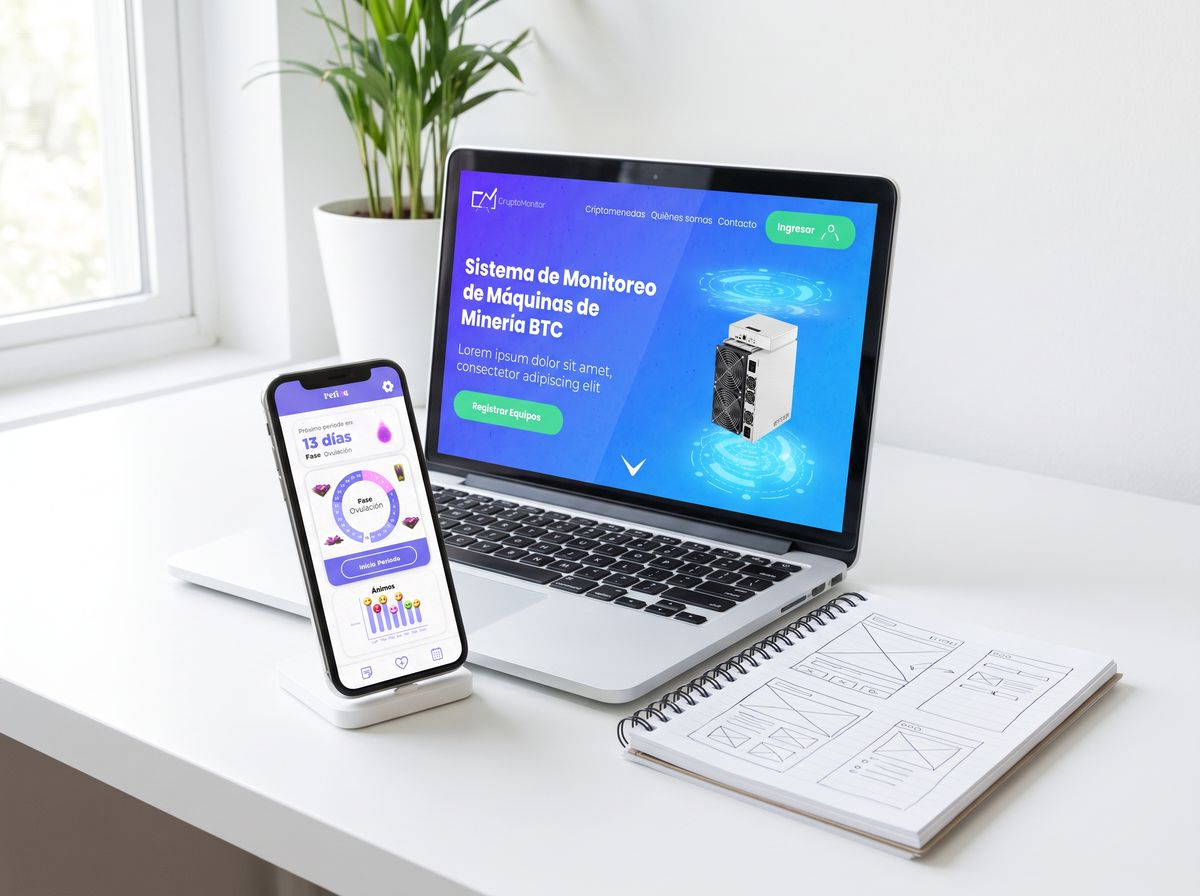
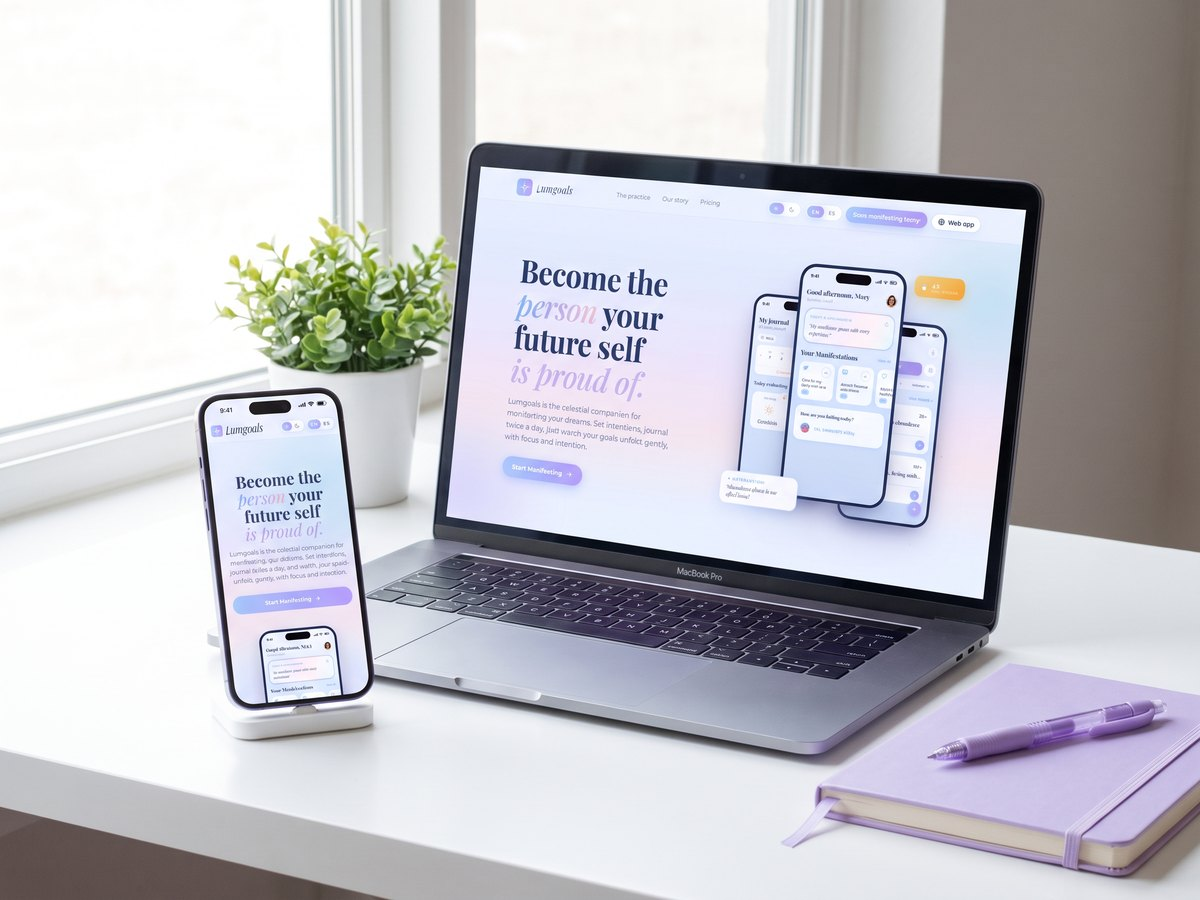
Lumgoals: sitio web con mockup y capturas; imagen de Websites & Apps con lumgoals.com

diff --git a/project/lumgoals.html b/project/lumgoals.html
@@ -56,7 +56,7 @@
   <h2 data-en="Creative process" data-es="Proceso creativo" data-split>Creative process</h2>
   <ol class="d-process" data-reveal><li>1. <b><span data-en="Brand and design system" data-es="Marca y sistema de diseño">Brand and design system</span>.</b> <span data-en="Logo design: a four-point sparkle that suggests light and a wish coming true, paired with an italic serif wordmark, plus the palette, Playfair Display typography and iridescent characters." data-es="Diseño del logo: una estrella de cuatro puntas que sugiere luz y un deseo que se cumple, junto a un logotipo en serif cursiva, además de la paleta, la tipografía Playfair Display y los personajes iridiscentes.">Logo design: a four-point sparkle that suggests light and a wish coming true, paired with an italic serif wordmark, plus the palette, Playfair Display typography and iridescent characters.</span></li><li>2. <b><span data-en="App UI/UX" data-es="UI/UX de la app">App UI/UX</span>.</b> <span data-en="Onboarding flow, home, manifestations, journal, vision boards and premium screens in light and dark themes." data-es="Onboarding, inicio, manifestaciones, diario, tableros de visión y pantallas premium en tema claro y oscuro.">Onboarding flow, home, manifestations, journal, vision boards and premium screens in light and dark themes.</span></li><li>3. <b><span data-en="Launch content" data-es="Contenido de lanzamiento">Launch content</span>.</b> <span data-en="Store banners and Instagram posts with QR and call to action for the launch." data-es="Banners para las tiendas y posts de Instagram con QR y llamado a la acción para el lanzamiento.">Store banners and Instagram posts with QR and call to action for the launch.</span></li></ol>
 </section>
-<section class="wrap"><div class="d-imgs"><span class="label s-label" data-en="Logo design" data-es="Diseño del logo">Logo design</span><div class="s-grid" style="--cols:1"><div class="s-cell" style="aspect-ratio:1920/1200" data-lightbox data-clip><img src="../assets/projects/lumgoals/logo-board.jpg?v=1792865134" alt="Lumgoals" loading="lazy"></div></div><div class="s-grid" style="--cols:2"><div class="s-cell" style="aspect-ratio:1200/896" data-lightbox data-clip><img src="../assets/projects/lumgoals/logo-phone.jpg?v=1792865135" alt="Lumgoals" loading="lazy"></div><div class="s-cell" style="aspect-ratio:1200/896" data-lightbox data-clip><img src="../assets/projects/lumgoals/logo-merch.jpg?v=1792865135" alt="Lumgoals" loading="lazy"></div></div><span class="label s-label" data-en="Light theme" data-es="Tema claro">Light theme</span><div class="phones"><div class="phone" data-clip><div class="phone-screen" data-lightbox><img src="../assets/projects/lumgoals/light-1.jpg?v=1792839564" alt="Lumgoals" loading="lazy"></div></div><div class="phone" data-clip><div class="phone-screen" data-lightbox><img src="../assets/projects/lumgoals/light-2.jpg?v=1792839564" alt="Lumgoals" loading="lazy"></div></div><div class="phone" data-clip><div class="phone-screen" data-lightbox><img src="../assets/projects/lumgoals/light-3.jpg?v=1792839564" alt="Lumgoals" loading="lazy"></div></div><div class="phone" data-clip><div class="phone-screen" data-lightbox><img src="../assets/projects/lumgoals/light-4.jpg?v=1792839565" alt="Lumgoals" loading="lazy"></div></div><div class="phone" data-clip><div class="phone-screen" data-lightbox><img src="../assets/projects/lumgoals/light-5.jpg?v=1792839565" alt="Lumgoals" loading="lazy"></div></div></div><span class="label s-label" data-en="Dark theme" data-es="Tema oscuro">Dark theme</span><div class="phones dark"><div class="phone" data-clip><div class="phone-screen" data-lightbox><img src="../assets/projects/lumgoals/dark-1.jpg?v=1792839565" alt="Lumgoals" loading="lazy"></div></div><div class="phone" data-clip><div class="phone-screen" data-lightbox><img src="../assets/projects/lumgoals/dark-2.jpg?v=1792839565" alt="Lumgoals" loading="lazy"></div></div><div class="phone" data-clip><div class="phone-screen" data-lightbox><img src="../assets/projects/lumgoals/dark-3.jpg?v=1792839565" alt="Lumgoals" loading="lazy"></div></div><div class="phone" data-clip><div class="phone-screen" data-lightbox><img src="../assets/projects/lumgoals/dark-4.jpg?v=1792839565" alt="Lumgoals" loading="lazy"></div></div><div class="phone" data-clip><div class="phone-screen" data-lightbox><img src="../assets/projects/lumgoals/dark-5.jpg?v=1792839565" alt="Lumgoals" loading="lazy"></div></div></div><div class="s-grid" style="--cols:1"><div class="s-cell s-video" style="aspect-ratio:1280/720" data-clip><video src="../assets/projects/lumgoals/woman-app-loop.mp4?v=1792869048" poster="../assets/projects/lumgoals/woman-app-loop.jpg?v=1792869048" autoplay muted loop playsinline preload="metadata"></video></div></div><span class="label s-label" data-en="Social media reels" data-es="Reels para redes">Social media reels</span><div class="s-grid" style="--cols:4"><div class="s-cell s-video" style="aspect-ratio:540/960" data-clip><video src="../assets/projects/lumgoals/social/reel-01.mp4?v=1792865024" poster="../assets/projects/lumgoals/social/reel-01.jpg?v=1792865024" autoplay muted loop playsinline preload="metadata"></video></div><div class="s-cell s-video" style="aspect-ratio:540/960" data-clip><video src="../assets/projects/lumgoals/social/reel-02.mp4?v=1792865025" poster="../assets/projects/lumgoals/social/reel-02.jpg?v=1792865025" autoplay muted loop playsinline preload="metadata"></video></div><div class="s-cell s-video" style="aspect-ratio:540/960" data-clip><video src="../assets/projects/lumgoals/social/reel-03.mp4?v=1792865026" poster="../assets/projects/lumgoals/social/reel-03.jpg?v=1792865026" autoplay muted loop playsinline preload="metadata"></video></div><div class="s-cell s-video" style="aspect-ratio:540/960" data-clip><video src="../assets/projects/lumgoals/social/reel-04.mp4?v=1792865028" poster="../assets/projects/lumgoals/social/reel-04.jpg?v=1792865028" autoplay muted loop playsinline preload="metadata"></video></div><div class="s-cell s-video" style="aspect-ratio:540/960" data-clip><video src="../assets/projects/lumgoals/social/reel-05.mp4?v=1792865029" poster="../assets/projects/lumgoals/social/reel-05.jpg?v=1792865029" autoplay muted loop playsinline preload="metadata"></video></div><div class="s-cell s-video" style="aspect-ratio:540/960" data-clip><video src="../assets/projects/lumgoals/social/reel-06.mp4?v=1792865030" poster="../assets/projects/lumgoals/social/reel-06.jpg?v=1792865030" autoplay muted loop playsinline preload="metadata"></video></div><div class="s-cell s-video" style="aspect-ratio:540/960" data-clip><video src="../assets/projects/lumgoals/social/reel-07.mp4?v=1792865031" poster="../assets/projects/lumgoals/social/reel-07.jpg?v=1792865031" autoplay muted loop playsinline preload="metadata"></video></div><div class="s-cell s-video" style="aspect-ratio:540/960" data-clip><video src="../assets/projects/lumgoals/social/reel-08.mp4?v=1792865032" poster="../assets/projects/lumgoals/social/reel-08.jpg?v=1792865033" autoplay muted loop playsinline preload="metadata"></video></div><div class="s-cell s-video" style="aspect-ratio:540/960" data-clip><video src="../assets/projects/lumgoals/social/reel-09.mp4?v=1792865033" poster="../assets/projects/lumgoals/social/reel-09.jpg?v=1792865034" autoplay muted loop playsinline preload="metadata"></video></div><div class="s-cell s-video" style="aspect-ratio:540/960" data-clip><video src="../assets/projects/lumgoals/social/reel-10.mp4?v=1792865035" poster="../assets/projects/lumgoals/social/reel-10.jpg?v=1792865035" autoplay muted loop playsinline preload="metadata"></video></div><div class="s-cell s-video" style="aspect-ratio:540/960" data-clip><video src="../assets/projects/lumgoals/social/reel-11.mp4?v=1792865036" poster="../assets/projects/lumgoals/social/reel-11.jpg?v=1792865036" autoplay muted loop playsinline preload="metadata"></video></div></div><span class="label s-label" data-en="Social media posts" data-es="Posts para redes">Social media posts</span><div class="p-feed"><figure class="p-card" data-clip><figcaption class="p-head"><span class="p-avatar"></span>lumgoals</figcaption><div class="p-img" style="aspect-ratio:900/1125" data-lightbox><img src="../assets/projects/lumgoals/post-1.jpg?v=1792839564" alt="Lumgoals" loading="lazy"></div><div class="p-actions"><svg viewBox="0 0 24 24" aria-hidden="true"><path d="M12 20.5s-7.5-4.6-9.3-9.2C1.4 8 3.6 4.5 7.2 4.5c2 0 3.6 1.1 4.8 2.8 1.2-1.7 2.8-2.8 4.8-2.8 3.6 0 5.8 3.5 4.5 6.8-1.8 4.6-9.3 9.2-9.3 9.2z"/></svg><svg viewBox="0 0 24 24" aria-hidden="true"><path d="M20.5 11.6a8.4 8.4 0 0 1-12.3 7.5L3.5 20.5l1.4-4.6A8.5 8.5 0 1 1 20.5 11.6z"/></svg><svg viewBox="0 0 24 24" aria-hidden="true"><path d="M21.5 3.5 10.6 13.4M21.5 3.5l-6.8 17-4.1-7.1-7.1-4.1z"/></svg><span class="p-save"><svg viewBox="0 0 24 24" aria-hidden="true"><path d="M6 3.5h12v17l-6-4.4-6 4.4z"/></svg></span></div></figure><figure class="p-card" data-clip><figcaption class="p-head"><span class="p-avatar"></span>lumgoals</figcaption><div class="p-img" style="aspect-ratio:900/1125" data-lightbox><img src="../assets/projects/lumgoals/post-2.jpg?v=1792839564" alt="Lumgoals" loading="lazy"></div><div class="p-actions"><svg viewBox="0 0 24 24" aria-hidden="true"><path d="M12 20.5s-7.5-4.6-9.3-9.2C1.4 8 3.6 4.5 7.2 4.5c2 0 3.6 1.1 4.8 2.8 1.2-1.7 2.8-2.8 4.8-2.8 3.6 0 5.8 3.5 4.5 6.8-1.8 4.6-9.3 9.2-9.3 9.2z"/></svg><svg viewBox="0 0 24 24" aria-hidden="true"><path d="M20.5 11.6a8.4 8.4 0 0 1-12.3 7.5L3.5 20.5l1.4-4.6A8.5 8.5 0 1 1 20.5 11.6z"/></svg><svg viewBox="0 0 24 24" aria-hidden="true"><path d="M21.5 3.5 10.6 13.4M21.5 3.5l-6.8 17-4.1-7.1-7.1-4.1z"/></svg><span class="p-save"><svg viewBox="0 0 24 24" aria-hidden="true"><path d="M6 3.5h12v17l-6-4.4-6 4.4z"/></svg></span></div></figure><figure class="p-card" data-clip><figcaption class="p-head"><span class="p-avatar"></span>lumgoals</figcaption><div class="p-img" style="aspect-ratio:900/1125" data-lightbox><img src="../assets/projects/lumgoals/post-3.jpg?v=1792839564" alt="Lumgoals" loading="lazy"></div><div class="p-actions"><svg viewBox="0 0 24 24" aria-hidden="true"><path d="M12 20.5s-7.5-4.6-9.3-9.2C1.4 8 3.6 4.5 7.2 4.5c2 0 3.6 1.1 4.8 2.8 1.2-1.7 2.8-2.8 4.8-2.8 3.6 0 5.8 3.5 4.5 6.8-1.8 4.6-9.3 9.2-9.3 9.2z"/></svg><svg viewBox="0 0 24 24" aria-hidden="true"><path d="M20.5 11.6a8.4 8.4 0 0 1-12.3 7.5L3.5 20.5l1.4-4.6A8.5 8.5 0 1 1 20.5 11.6z"/></svg><svg viewBox="0 0 24 24" aria-hidden="true"><path d="M21.5 3.5 10.6 13.4M21.5 3.5l-6.8 17-4.1-7.1-7.1-4.1z"/></svg><span class="p-save"><svg viewBox="0 0 24 24" aria-hidden="true"><path d="M6 3.5h12v17l-6-4.4-6 4.4z"/></svg></span></div></figure><figure class="p-card" data-clip><figcaption class="p-head"><span class="p-avatar"></span>lumgoals</figcaption><div class="p-img" style="aspect-ratio:900/1125" data-lightbox><img src="../assets/projects/lumgoals/post-4.jpg?v=1792839564" alt="Lumgoals" loading="lazy"></div><div class="p-actions"><svg viewBox="0 0 24 24" aria-hidden="true"><path d="M12 20.5s-7.5-4.6-9.3-9.2C1.4 8 3.6 4.5 7.2 4.5c2 0 3.6 1.1 4.8 2.8 1.2-1.7 2.8-2.8 4.8-2.8 3.6 0 5.8 3.5 4.5 6.8-1.8 4.6-9.3 9.2-9.3 9.2z"/></svg><svg viewBox="0 0 24 24" aria-hidden="true"><path d="M20.5 11.6a8.4 8.4 0 0 1-12.3 7.5L3.5 20.5l1.4-4.6A8.5 8.5 0 1 1 20.5 11.6z"/></svg><svg viewBox="0 0 24 24" aria-hidden="true"><path d="M21.5 3.5 10.6 13.4M21.5 3.5l-6.8 17-4.1-7.1-7.1-4.1z"/></svg><span class="p-save"><svg viewBox="0 0 24 24" aria-hidden="true"><path d="M6 3.5h12v17l-6-4.4-6 4.4z"/></svg></span></div></figure><figure class="p-card" data-clip><figcaption class="p-head"><span class="p-avatar"></span>lumgoals</figcaption><div class="p-img" style="aspect-ratio:900/1125" data-lightbox><img src="../assets/projects/lumgoals/post-5.jpg?v=1792839564" alt="Lumgoals" loading="lazy"></div><div class="p-actions"><svg viewBox="0 0 24 24" aria-hidden="true"><path d="M12 20.5s-7.5-4.6-9.3-9.2C1.4 8 3.6 4.5 7.2 4.5c2 0 3.6 1.1 4.8 2.8 1.2-1.7 2.8-2.8 4.8-2.8 3.6 0 5.8 3.5 4.5 6.8-1.8 4.6-9.3 9.2-9.3 9.2z"/></svg><svg viewBox="0 0 24 24" aria-hidden="true"><path d="M20.5 11.6a8.4 8.4 0 0 1-12.3 7.5L3.5 20.5l1.4-4.6A8.5 8.5 0 1 1 20.5 11.6z"/></svg><svg viewBox="0 0 24 24" aria-hidden="true"><path d="M21.5 3.5 10.6 13.4M21.5 3.5l-6.8 17-4.1-7.1-7.1-4.1z"/></svg><span class="p-save"><svg viewBox="0 0 24 24" aria-hidden="true"><path d="M6 3.5h12v17l-6-4.4-6 4.4z"/></svg></span></div></figure></div></div></section>
+<section class="wrap"><div class="d-imgs"><span class="label s-label" data-en="Logo design" data-es="Diseño del logo">Logo design</span><div class="s-grid" style="--cols:1"><div class="s-cell" style="aspect-ratio:1920/1200" data-lightbox data-clip><img src="../assets/projects/lumgoals/logo-board.jpg?v=1792865134" alt="Lumgoals" loading="lazy"></div></div><div class="s-grid" style="--cols:2"><div class="s-cell" style="aspect-ratio:1200/896" data-lightbox data-clip><img src="../assets/projects/lumgoals/logo-phone.jpg?v=1792865135" alt="Lumgoals" loading="lazy"></div><div class="s-cell" style="aspect-ratio:1200/896" data-lightbox data-clip><img src="../assets/projects/lumgoals/logo-merch.jpg?v=1792865135" alt="Lumgoals" loading="lazy"></div></div><span class="label s-label" data-en="Light theme" data-es="Tema claro">Light theme</span><div class="phones"><div class="phone" data-clip><div class="phone-screen" data-lightbox><img src="../assets/projects/lumgoals/light-1.jpg?v=1792839564" alt="Lumgoals" loading="lazy"></div></div><div class="phone" data-clip><div class="phone-screen" data-lightbox><img src="../assets/projects/lumgoals/light-2.jpg?v=1792839564" alt="Lumgoals" loading="lazy"></div></div><div class="phone" data-clip><div class="phone-screen" data-lightbox><img src="../assets/projects/lumgoals/light-3.jpg?v=1792839564" alt="Lumgoals" loading="lazy"></div></div><div class="phone" data-clip><div class="phone-screen" data-lightbox><img src="../assets/projects/lumgoals/light-4.jpg?v=1792839565" alt="Lumgoals" loading="lazy"></div></div><div class="phone" data-clip><div class="phone-screen" data-lightbox><img src="../assets/projects/lumgoals/light-5.jpg?v=1792839565" alt="Lumgoals" loading="lazy"></div></div></div><span class="label s-label" data-en="Dark theme" data-es="Tema oscuro">Dark theme</span><div class="phones dark"><div class="phone" data-clip><div class="phone-screen" data-lightbox><img src="../assets/projects/lumgoals/dark-1.jpg?v=1792839565" alt="Lumgoals" loading="lazy"></div></div><div class="phone" data-clip><div class="phone-screen" data-lightbox><img src="../assets/projects/lumgoals/dark-2.jpg?v=1792839565" alt="Lumgoals" loading="lazy"></div></div><div class="phone" data-clip><div class="phone-screen" data-lightbox><img src="../assets/projects/lumgoals/dark-3.jpg?v=1792839565" alt="Lumgoals" loading="lazy"></div></div><div class="phone" data-clip><div class="phone-screen" data-lightbox><img src="../assets/projects/lumgoals/dark-4.jpg?v=1792839565" alt="Lumgoals" loading="lazy"></div></div><div class="phone" data-clip><div class="phone-screen" data-lightbox><img src="../assets/projects/lumgoals/dark-5.jpg?v=1792839565" alt="Lumgoals" loading="lazy"></div></div></div><div class="s-grid" style="--cols:1"><div class="s-cell s-video" style="aspect-ratio:1280/720" data-clip><video src="../assets/projects/lumgoals/woman-app-loop.mp4?v=1792869048" poster="../assets/projects/lumgoals/woman-app-loop.jpg?v=1792869048" autoplay muted loop playsinline preload="metadata"></video></div></div><span class="label s-label" data-en="Website" data-es="Sitio web">Website</span><div class="s-grid" style="--cols:1"><div class="s-cell" style="aspect-ratio:1920/1433" data-lightbox data-clip><img src="../assets/projects/lumgoals/web/mockup.jpg?v=1792873180" alt="Lumgoals" loading="lazy"></div></div><div class="browsers"><div class="browser" data-clip><div class="browser-bar"><i></i><i></i><i></i><span>lumgoals.com</span></div><div data-lightbox><img src="../assets/projects/lumgoals/web/desktop-0.jpg?v=1792873180" alt="Lumgoals" loading="lazy"></div></div><div class="browser" data-clip><div class="browser-bar"><i></i><i></i><i></i><span>lumgoals.com</span></div><div data-lightbox><img src="../assets/projects/lumgoals/web/desktop-1.jpg?v=1792873180" alt="Lumgoals" loading="lazy"></div></div><div class="browser" data-clip><div class="browser-bar"><i></i><i></i><i></i><span>lumgoals.com</span></div><div data-lightbox><img src="../assets/projects/lumgoals/web/desktop-2.jpg?v=1792873180" alt="Lumgoals" loading="lazy"></div></div><div class="browser" data-clip><div class="browser-bar"><i></i><i></i><i></i><span>lumgoals.com</span></div><div data-lightbox><img src="../assets/projects/lumgoals/web/desktop-4.jpg?v=1792873202" alt="Lumgoals" loading="lazy"></div></div></div><span class="label s-label" data-en="Social media reels" data-es="Reels para redes">Social media reels</span><div class="s-grid" style="--cols:4"><div class="s-cell s-video" style="aspect-ratio:540/960" data-clip><video src="../assets/projects/lumgoals/social/reel-01.mp4?v=1792865024" poster="../assets/projects/lumgoals/social/reel-01.jpg?v=1792865024" autoplay muted loop playsinline preload="metadata"></video></div><div class="s-cell s-video" style="aspect-ratio:540/960" data-clip><video src="../assets/projects/lumgoals/social/reel-02.mp4?v=1792865025" poster="../assets/projects/lumgoals/social/reel-02.jpg?v=1792865025" autoplay muted loop playsinline preload="metadata"></video></div><div class="s-cell s-video" style="aspect-ratio:540/960" data-clip><video src="../assets/projects/lumgoals/social/reel-03.mp4?v=1792865026" poster="../assets/projects/lumgoals/social/reel-03.jpg?v=1792865026" autoplay muted loop playsinline preload="metadata"></video></div><div class="s-cell s-video" style="aspect-ratio:540/960" data-clip><video src="../assets/projects/lumgoals/social/reel-04.mp4?v=1792865028" poster="../assets/projects/lumgoals/social/reel-04.jpg?v=1792865028" autoplay muted loop playsinline preload="metadata"></video></div><div class="s-cell s-video" style="aspect-ratio:540/960" data-clip><video src="../assets/projects/lumgoals/social/reel-05.mp4?v=1792865029" poster="../assets/projects/lumgoals/social/reel-05.jpg?v=1792865029" autoplay muted loop playsinline preload="metadata"></video></div><div class="s-cell s-video" style="aspect-ratio:540/960" data-clip><video src="../assets/projects/lumgoals/social/reel-06.mp4?v=1792865030" poster="../assets/projects/lumgoals/social/reel-06.jpg?v=1792865030" autoplay muted loop playsinline preload="metadata"></video></div><div class="s-cell s-video" style="aspect-ratio:540/960" data-clip><video src="../assets/projects/lumgoals/social/reel-07.mp4?v=1792865031" poster="../assets/projects/lumgoals/social/reel-07.jpg?v=1792865031" autoplay muted loop playsinline preload="metadata"></video></div><div class="s-cell s-video" style="aspect-ratio:540/960" data-clip><video src="../assets/projects/lumgoals/social/reel-08.mp4?v=1792865032" poster="../assets/projects/lumgoals/social/reel-08.jpg?v=1792865033" autoplay muted loop playsinline preload="metadata"></video></div><div class="s-cell s-video" style="aspect-ratio:540/960" data-clip><video src="../assets/projects/lumgoals/social/reel-09.mp4?v=1792865033" poster="../assets/projects/lumgoals/social/reel-09.jpg?v=1792865034" autoplay muted loop playsinline preload="metadata"></video></div><div class="s-cell s-video" style="aspect-ratio:540/960" data-clip><video src="../assets/projects/lumgoals/social/reel-10.mp4?v=1792865035" poster="../assets/projects/lumgoals/social/reel-10.jpg?v=1792865035" autoplay muted loop playsinline preload="metadata"></video></div><div class="s-cell s-video" style="aspect-ratio:540/960" data-clip><video src="../assets/projects/lumgoals/social/reel-11.mp4?v=1792865036" poster="../assets/projects/lumgoals/social/reel-11.jpg?v=1792865036" autoplay muted loop playsinline preload="metadata"></video></div></div><span class="label s-label" data-en="Social media posts" data-es="Posts para redes">Social media posts</span><div class="p-feed"><figure class="p-card" data-clip><figcaption class="p-head"><span class="p-avatar"></span>lumgoals</figcaption><div class="p-img" style="aspect-ratio:900/1125" data-lightbox><img src="../assets/projects/lumgoals/post-1.jpg?v=1792839564" alt="Lumgoals" loading="lazy"></div><div class="p-actions"><svg viewBox="0 0 24 24" aria-hidden="true"><path d="M12 20.5s-7.5-4.6-9.3-9.2C1.4 8 3.6 4.5 7.2 4.5c2 0 3.6 1.1 4.8 2.8 1.2-1.7 2.8-2.8 4.8-2.8 3.6 0 5.8 3.5 4.5 6.8-1.8 4.6-9.3 9.2-9.3 9.2z"/></svg><svg viewBox="0 0 24 24" aria-hidden="true"><path d="M20.5 11.6a8.4 8.4 0 0 1-12.3 7.5L3.5 20.5l1.4-4.6A8.5 8.5 0 1 1 20.5 11.6z"/></svg><svg viewBox="0 0 24 24" aria-hidden="true"><path d="M21.5 3.5 10.6 13.4M21.5 3.5l-6.8 17-4.1-7.1-7.1-4.1z"/></svg><span class="p-save"><svg viewBox="0 0 24 24" aria-hidden="true"><path d="M6 3.5h12v17l-6-4.4-6 4.4z"/></svg></span></div></figure><figure class="p-card" data-clip><figcaption class="p-head"><span class="p-avatar"></span>lumgoals</figcaption><div class="p-img" style="aspect-ratio:900/1125" data-lightbox><img src="../assets/projects/lumgoals/post-2.jpg?v=1792839564" alt="Lumgoals" loading="lazy"></div><div class="p-actions"><svg viewBox="0 0 24 24" aria-hidden="true"><path d="M12 20.5s-7.5-4.6-9.3-9.2C1.4 8 3.6 4.5 7.2 4.5c2 0 3.6 1.1 4.8 2.8 1.2-1.7 2.8-2.8 4.8-2.8 3.6 0 5.8 3.5 4.5 6.8-1.8 4.6-9.3 9.2-9.3 9.2z"/></svg><svg viewBox="0 0 24 24" aria-hidden="true"><path d="M20.5 11.6a8.4 8.4 0 0 1-12.3 7.5L3.5 20.5l1.4-4.6A8.5 8.5 0 1 1 20.5 11.6z"/></svg><svg viewBox="0 0 24 24" aria-hidden="true"><path d="M21.5 3.5 10.6 13.4M21.5 3.5l-6.8 17-4.1-7.1-7.1-4.1z"/></svg><span class="p-save"><svg viewBox="0 0 24 24" aria-hidden="true"><path d="M6 3.5h12v17l-6-4.4-6 4.4z"/></svg></span></div></figure><figure class="p-card" data-clip><figcaption class="p-head"><span class="p-avatar"></span>lumgoals</figcaption><div class="p-img" style="aspect-ratio:900/1125" data-lightbox><img src="../assets/projects/lumgoals/post-3.jpg?v=1792839564" alt="Lumgoals" loading="lazy"></div><div class="p-actions"><svg viewBox="0 0 24 24" aria-hidden="true"><path d="M12 20.5s-7.5-4.6-9.3-9.2C1.4 8 3.6 4.5 7.2 4.5c2 0 3.6 1.1 4.8 2.8 1.2-1.7 2.8-2.8 4.8-2.8 3.6 0 5.8 3.5 4.5 6.8-1.8 4.6-9.3 9.2-9.3 9.2z"/></svg><svg viewBox="0 0 24 24" aria-hidden="true"><path d="M20.5 11.6a8.4 8.4 0 0 1-12.3 7.5L3.5 20.5l1.4-4.6A8.5 8.5 0 1 1 20.5 11.6z"/></svg><svg viewBox="0 0 24 24" aria-hidden="true"><path d="M21.5 3.5 10.6 13.4M21.5 3.5l-6.8 17-4.1-7.1-7.1-4.1z"/></svg><span class="p-save"><svg viewBox="0 0 24 24" aria-hidden="true"><path d="M6 3.5h12v17l-6-4.4-6 4.4z"/></svg></span></div></figure><figure class="p-card" data-clip><figcaption class="p-head"><span class="p-avatar"></span>lumgoals</figcaption><div class="p-img" style="aspect-ratio:900/1125" data-lightbox><img src="../assets/projects/lumgoals/post-4.jpg?v=1792839564" alt="Lumgoals" loading="lazy"></div><div class="p-actions"><svg viewBox="0 0 24 24" aria-hidden="true"><path d="M12 20.5s-7.5-4.6-9.3-9.2C1.4 8 3.6 4.5 7.2 4.5c2 0 3.6 1.1 4.8 2.8 1.2-1.7 2.8-2.8 4.8-2.8 3.6 0 5.8 3.5 4.5 6.8-1.8 4.6-9.3 9.2-9.3 9.2z"/></svg><svg viewBox="0 0 24 24" aria-hidden="true"><path d="M20.5 11.6a8.4 8.4 0 0 1-12.3 7.5L3.5 20.5l1.4-4.6A8.5 8.5 0 1 1 20.5 11.6z"/></svg><svg viewBox="0 0 24 24" aria-hidden="true"><path d="M21.5 3.5 10.6 13.4M21.5 3.5l-6.8 17-4.1-7.1-7.1-4.1z"/></svg><span class="p-save"><svg viewBox="0 0 24 24" aria-hidden="true"><path d="M6 3.5h12v17l-6-4.4-6 4.4z"/></svg></span></div></figure><figure class="p-card" data-clip><figcaption class="p-head"><span class="p-avatar"></span>lumgoals</figcaption><div class="p-img" style="aspect-ratio:900/1125" data-lightbox><img src="../assets/projects/lumgoals/post-5.jpg?v=1792839564" alt="Lumgoals" loading="lazy"></div><div class="p-actions"><svg viewBox="0 0 24 24" aria-hidden="true"><path d="M12 20.5s-7.5-4.6-9.3-9.2C1.4 8 3.6 4.5 7.2 4.5c2 0 3.6 1.1 4.8 2.8 1.2-1.7 2.8-2.8 4.8-2.8 3.6 0 5.8 3.5 4.5 6.8-1.8 4.6-9.3 9.2-9.3 9.2z"/></svg><svg viewBox="0 0 24 24" aria-hidden="true"><path d="M20.5 11.6a8.4 8.4 0 0 1-12.3 7.5L3.5 20.5l1.4-4.6A8.5 8.5 0 1 1 20.5 11.6z"/></svg><svg viewBox="0 0 24 24" aria-hidden="true"><path d="M21.5 3.5 10.6 13.4M21.5 3.5l-6.8 17-4.1-7.1-7.1-4.1z"/></svg><span class="p-save"><svg viewBox="0 0 24 24" aria-hidden="true"><path d="M6 3.5h12v17l-6-4.4-6 4.4z"/></svg></span></div></figure></div></div></section>
 <section class="wrap d-next">
   <a href="sona.html">
     <div><span class="label" data-en="Next project" data-es="Siguiente proyecto">Next project</span><h2>Sona Strategic Advisors</h2></div>

diff --git a/index.html b/index.html
@@ -71,7 +71,7 @@
 </article><article class="svc-row" style="z-index:6">
   <div class="svc-num">S/ 006</div>
   <div class="svc-body"><h3>Websites &amp; Apps</h3><p data-en="UI/UX for user-centered digital interfaces." data-es="UI/UX para interfaces digitales centradas en el usuario.">UI/UX for user-centered digital interfaces.</p><a class="pill" href="projects.html?filter=digital"><span data-en="View projects" data-es="Ver proyectos">View projects</span></a></div>
-  <div class="svc-art" data-clip><img src="assets/categories/web.jpg?v=1792839346" alt="Websites &amp; Apps" loading="lazy"></div>
+  <div class="svc-art" data-clip><img src="assets/categories/web.jpg?v=1792873180" alt="Websites &amp; Apps" loading="lazy"></div>
 </article><article class="svc-row" style="z-index:7">
   <div class="svc-num">S/ 007</div>
   <div class="svc-body"><h3>AI Lab</h3><p data-en="Photography, video and experiences created with AI." data-es="Fotografía, video y experiencias creadas con IA.">Photography, video and experiences created with AI.</p><a class="pill" href="projects.html?filter=ai"><span data-en="View projects" data-es="Ver proyectos">View projects</span></a></div>
